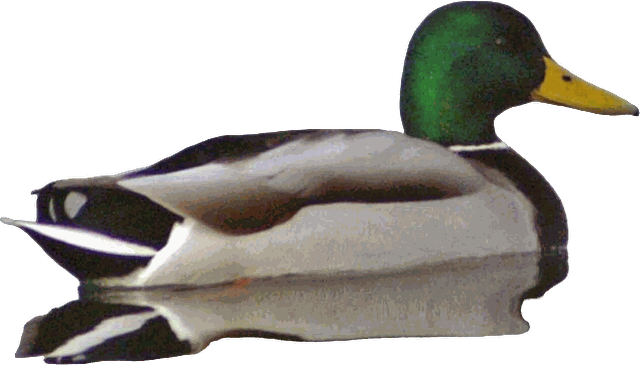
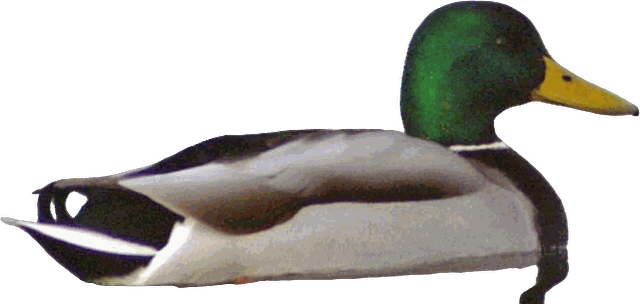
feat(world): ảnh thật 2.5D cho cá nhỏ/chim/ong/ếch/vịt/gấu mèo/sư tử, model có texture cho hươu đực, gấu, hươu cao cổ, voi

diff --git a/app/public/world-photos/CREDITS.md b/app/public/world-photos/CREDITS.md
@@ -11,12 +11,12 @@ nguyên như ảnh gốc; ảnh CC BY-SA khi đã chỉnh sửa vẫn theo CC BY
 | manta.png | [Manta alfredi cruising - journal.pone.0046170.g002A.jpg](https://commons.wikimedia.org/wiki/File:Manta_alfredi_cruising_-_journal.pone.0046170.g002A.jpg) | Jaine FRA, Couturier LIE, Weeks SJ, Townsend KA, Bennett MB, et al. (2012) | [CC BY 2.5](https://creativecommons.org/licenses/by/2.5) | 33 KB |
 | yellow-tang.png | [Zebrasoma flavescens Luc Viatour.jpg](https://commons.wikimedia.org/wiki/File:Zebrasoma_flavescens_Luc_Viatour.jpg) | Luc Viatour | [CC BY-SA 3.0](http://creativecommons.org/licenses/by-sa/3.0/) | 38 KB |
 | goldfish.png | [Carassius wild golden fish 2013 G1.jpg](https://commons.wikimedia.org/wiki/File:Carassius_wild_golden_fish_2013_G1.jpg) | George Chernilevsky | Public domain | 69 KB |
-| koi.png | [Cyprinus carpio rubrofuscus in Ouwehands Dierenpark 01.jpg](https://commons.wikimedia.org/wiki/File:Cyprinus_carpio_rubrofuscus_in_Ouwehands_Dierenpark_01.jpg) | FakirNL | [CC BY-SA 4.0](https://creativecommons.org/licenses/by-sa/4.0) | 36 KB |
+| koi.png | [Japan-Koi.jpg](https://commons.wikimedia.org/wiki/File:Japan-Koi.jpg) | Immanuel Giel | [CC0](http://creativecommons.org/publicdomain/zero/1.0/deed.en) | 37 KB |
 | frog.png | [Green treefrog.jpg](https://commons.wikimedia.org/wiki/File:Green_treefrog.jpg) | Brian Gratwicke | [CC BY 2.0](https://creativecommons.org/licenses/by/2.0) | 53 KB |
-| duck.png | [Mallard Drake (Anas Platyrhynchos).jpg](https://commons.wikimedia.org/wiki/File:Mallard_Drake_(Anas_Platyrhynchos).jpg) | David Merrett | [CC BY 2.0](https://creativecommons.org/licenses/by/2.0) | 44 KB |
+| duck.png | [Mallard Drake (Anas Platyrhynchos).jpg](https://commons.wikimedia.org/wiki/File:Mallard_Drake_(Anas_Platyrhynchos).jpg) | David Merrett | [CC BY 2.0](https://creativecommons.org/licenses/by/2.0) | 34 KB |
 | bee.png | [Honey bee flying.JPG](https://commons.wikimedia.org/wiki/File:Honey_bee_flying.JPG) | Devcore | [CC0](http://creativecommons.org/publicdomain/zero/1.0/deed.en) | 52 KB |
 | parrot.png | [Ara macao -flying away-8a.jpg](https://commons.wikimedia.org/wiki/File:Ara_macao_-flying_away-8a.jpg) | The original uploader was Robert01 at German Wikipedia. | [CC BY-SA 3.0 de](https://creativecommons.org/licenses/by-sa/3.0/de/deed.en) | 69 KB |
 | bat.png | [Fruit bat flying (35883279984).jpg](https://commons.wikimedia.org/wiki/File:Fruit_bat_flying_(35883279984).jpg) | Mike's Birds from Riverside, CA, US | [CC BY-SA 2.0](https://creativecommons.org/licenses/by-sa/2.0) | 60 KB |
 | pigeon.png | [Common pigeon at Waterlow Park, London 01.jpg](https://commons.wikimedia.org/wiki/File:Common_pigeon_at_Waterlow_Park,_London_01.jpg) | Satdeep Gill | [CC BY-SA 4.0](https://creativecommons.org/licenses/by-sa/4.0) | 75 KB |
 | raccoon.png | [Raccoon in Central Park (35264).jpg](https://commons.wikimedia.org/wiki/File:Raccoon_in_Central_Park_(35264).jpg) | Rhododendrites | [CC BY-SA 4.0](https://creativecommons.org/licenses/by-sa/4.0) | 117 KB |
-| lion.png | [Lion Walking.JPG](https://commons.wikimedia.org/wiki/File:Lion_Walking.JPG) | (WT-en) Jpatokal at English Wikivoyage | [CC BY-SA 3.0](https://creativecommons.org/licenses/by-sa/3.0) | 56 KB |
+| lion.png | [Lion (Panthera leo) walking on the road ... (50133447418).jpg](https://commons.wikimedia.org/wiki/File:Lion_(Panthera_leo)_walking_on_the_road_..._(50133447418).jpg) | Bernard DUPONT from FRANCE | [CC BY-SA 2.0](https://creativecommons.org/licenses/by-sa/2.0) | 68 KB |
